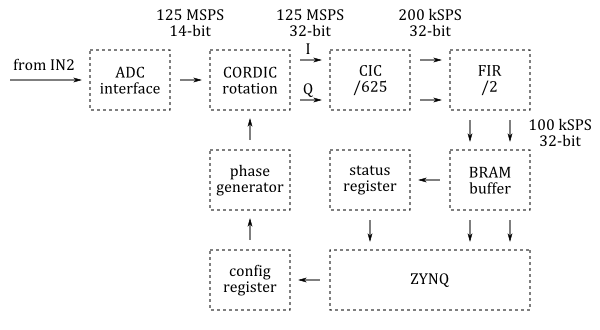
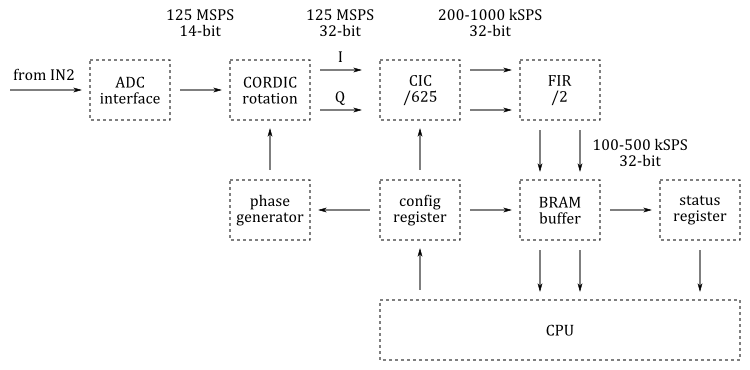
add configurable sample rate

diff --git a/sdr-receiver-nodma.md b/sdr-receiver-nodma.md
@@ -17,7 +17,9 @@ This new version communicates with the SDR software via TCP. The port number is 
 
 The [projects/sdr_receiver_nodma/server](https://github.com/pavel-demin/red-pitaya-notes/tree/develop/projects/sdr_receiver_nodma/server) directory contains the source code of the TCP server ([sdr-receiver.c](https://github.com/pavel-demin/red-pitaya-notes/blob/develop/projects/sdr_receiver_nodma/server/sdr-receiver.c)).
 
-The ExtIO plug-in has now a GUI form for the IP address configuration.
+The sample rate is now configurable and four settings are available: 50 kSPS, 100 kSPS, 250 kSPS and 500 kSPS.
+
+The ExtIO plug-in has now a GUI form for the IP address and sample rate configuration.
 
 The [projects/sdr_receiver_nodma/ExtIO_RedPitaya](https://github.com/pavel-demin/red-pitaya-notes/tree/develop/projects/sdr_receiver_nodma/ExtIO_RedPitaya) directory contains the source code of this plug-in.
 
